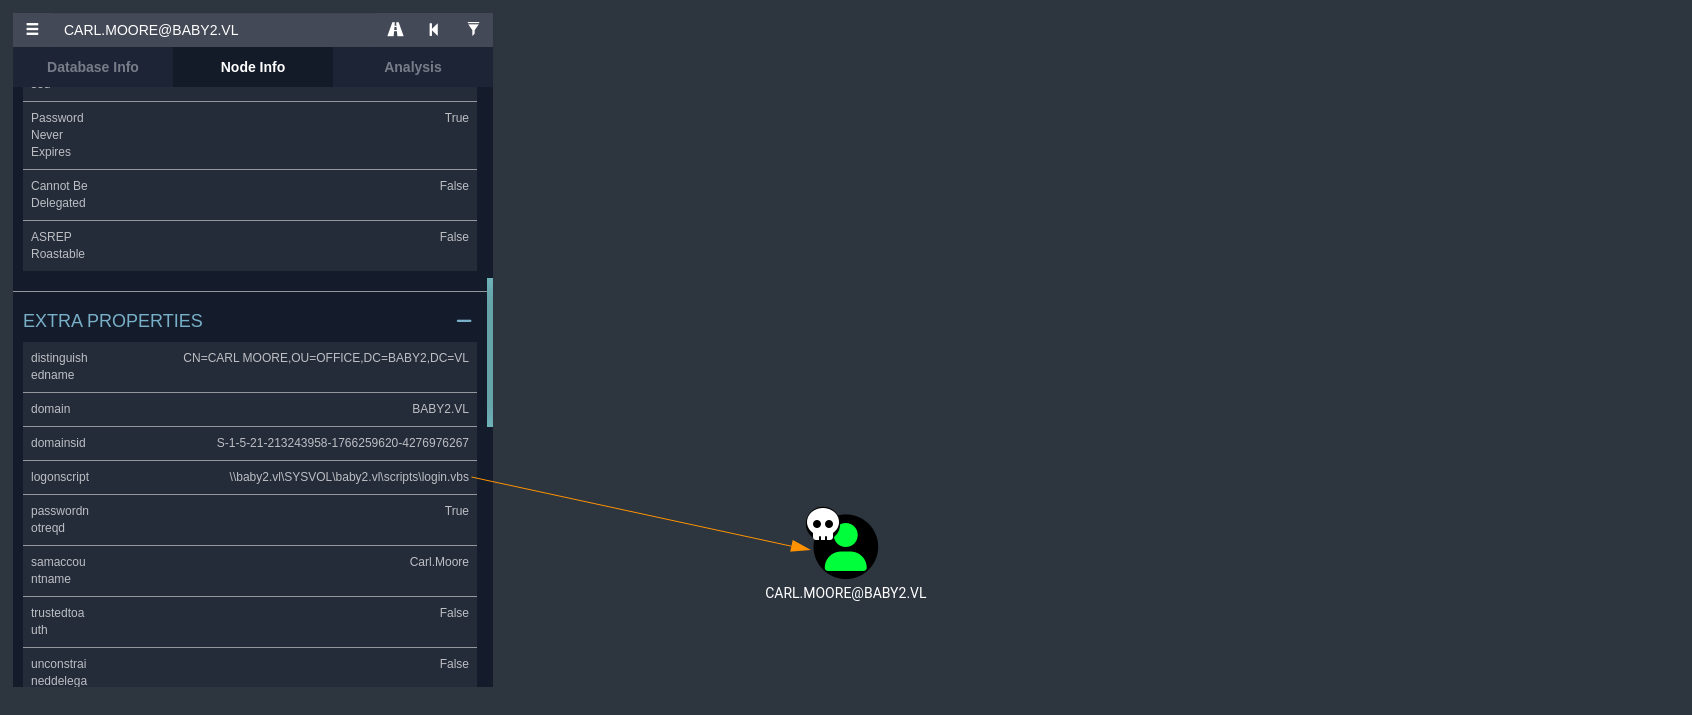
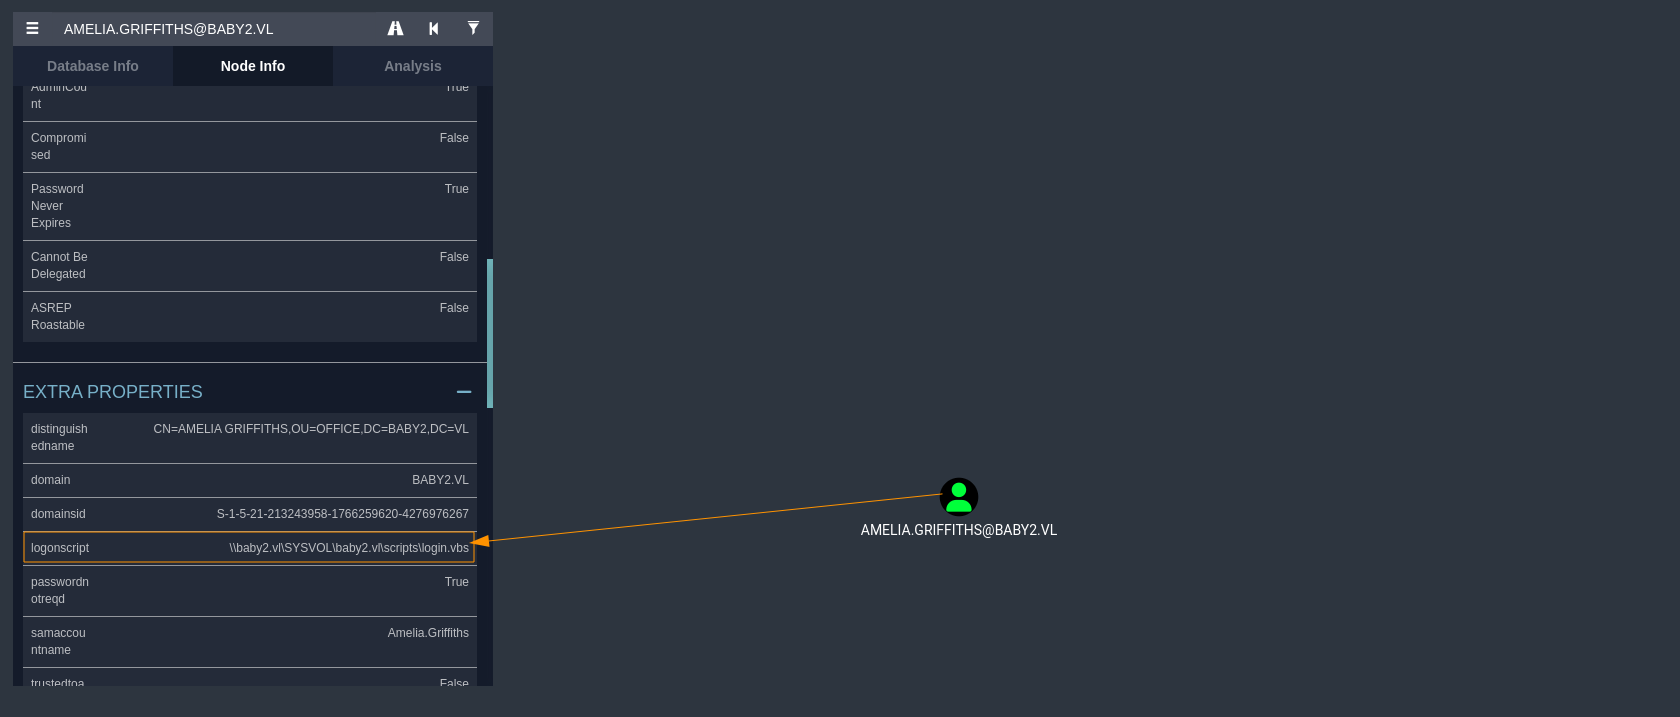
Updated New Post

diff --git a/_posts/2025-04-16-VulnLab-Baby2.md b/_posts/2025-04-16-VulnLab-Baby2.md
@@ -108,6 +108,7 @@ Nmap done: 1 IP address (1 host up) scanned in 197.82 seconds
 ## Enumeration
 
 ### SMB
+We kick off our enumeration with `SMB`, a common file-sharing protocol in Windows environments. It’s often a good first step when targeting Windows machines, especially in Active Directory. Using the `NetExec` tool we tried authenticating as the Guest user a default account that sometimes has limited access.The authentication was successful, and we were able to enumerate SMB shares on the target. Notably, we had read access to shares like `homes` and `apps`.
 
 ```bash
 nxc smb 10.10.83.184 -u 'Guest' -p '' --shares
@@ -115,17 +116,24 @@ nxc smb 10.10.83.184 -u 'Guest' -p '' --shares
 
 ![alt text](/assets/screenshots/baby2/1.png)
 
-Got users
+Digging deeper into the accessible shares, I focused on the homes share. As expected in many AD environments, this share contained home directories for individual users — essentially their personal folders on the domain.
+
+By listing the contents of this share, I was able to enumerate several valid usernames, which is a critical step when working in an Active Directory environment. These usernames will later come in handy for targeted enumeration or potential attacks like password spraying.
 
 ![alt text](/assets/screenshots/baby2/2.png)
 
-Username as Password
+**Username as Password**
+With our list of usernames gathered from the homes share, we moved on to testing a common misconfiguration users setting their password to match their username.
+We used NetExec again, leveraging its `--no-bruteforce` flag to ensure we’re not hammering accounts and risking lockouts.
+
+This approach paid off — we successfully authenticated with two sets of credentials, `Carl.Moore:Carl.Moore` and `library:library`
 
 ```bash
 nxc smb 10.10.68.173 -u loots/users.txt -p loots/users.txt --continue-on-success --no-bruteforce
 ```
 
 ![alt text](/assets/screenshots/baby2/3.png)
+
 
 Enumerating Users
 
@@ -135,7 +143,10 @@ nxc smb 10.10.68.173 -u Carl.Moore -p Carl.Moore --users
 
 ![alt text](/assets/screenshots/baby2/4.png)
 
-### Bloodhound
+### Enumerating the Domain with BloodHound
+Now that we’ve obtained valid credentials (`Carl.Moore:Carl.Moore`), it’s a great time to collect domain information using `BloodHound`, a powerful tool for visualizing and analyzing Active Directory relationships and privilege escalation paths.
+
+We used `bloodhound-python` to perform a full collection of data from the domain.With the data imported into BloodHound, we’re ready to start analyzing our attack paths and identifying misconfigurations that can lead us to domain dominance.
 
 ```bash
 bloodhound-python -d baby2.vl  -c all -u 'Carl.Moore' -p 'Carl.Moore' -ns 10.10.68.173 --zip
@@ -143,29 +154,45 @@ bloodhound-python -d baby2.vl  -c all -u 'Carl.Moore' -p 'Carl.Moore' -ns 10.10.
 
 ![alt text](/assets/screenshots/baby2/5.png)
 
+While reviewing the BloodHound data, we identified that the user AMELIA.GRIFFITHS has a `logon script` (*a script that runs automatically when a user logs into a Windows domain.*) configured `\\baby2.vl\SYSVOL\baby2.vl\scripts\login.vbs`.This script is located in the `SYSVOL` share — a shared folder used by domain controllers to store public domain-wide resources, including `Group Policy scripts`. 
+
 ![alt text](/assets/screenshots/baby2/6.png)
 
+>The key point here is if this script is writable by low-privileged users, it could be used as a method of privilege escalation.Since logon scripts are executed automatically when a user logs in, modifying a script tied to a privileged user could lead to code execution as that user
+{: .prompt-tip }
+
 ## Initial Access
+We accessed the SYSVOL share to inspect the logon script and found `login.vbs` inside the scripts directory. 
 
-### Abusing Logon Script
+![alt text](/assets/screenshots/baby2/17.png)
 
-here
+After downloading it locally, we analyzed its contents and modified it to include a malicious payload:
+This payload uses PowerShell to download and execute a reverse shell from our attacker-controlled machine. 
 
 ![alt text](/assets/screenshots/baby2/7.png)
 
-here
+### Abusing Logon Script
+Before proceeding, we deleted the original login.vbs from the share to confirm write access. Once confirmed, we uploaded our modified version successfully.
 
 ![alt text](/assets/screenshots/baby2/8.png)
 
-dd
-
-Got a shell
+Meanwhile, we had already set up a `Python HTTP server` to host `notpad.ps1` (a PowerShell reverse shell script) and a Netcat listener to catch the connection. As soon as a user triggered the logon script, we received a reverse shell confirming successful exploitation of a writable `logon script via GPO misconfiguration`. To confirm which user the reverse shell was running as, we executed the following PowerShell command, which is similar to whoami `"$env:USERDOMAIN\$env:USERNAME"`
 
 ![alt text](/assets/screenshots/baby2/9.png)
 
 ## Privilege Escalation
+Back in BloodHound, we discovered that `AMELIA.GRIFFITHS` is a member of the `LEGACY@BABY2.VL` group. According to the analysis, members of this group have the `WriteDACL` permission on the user `GPOADM@BABY2.VL`.
 
 ### writeDACL
+>In Active Directory, every object (like a user, group, or computer) has a set of permissions that control who can do what to it. These permissions are stored in something called a DACL (Discretionary Access Control List). The WriteDACL permission means you can edit that list of permissions.
+{: .prompt-tip }
+
+>Imagine a VIP room that has a guest list at the door only people on the list can get in.Normally, only the manager can edit the guest list.But if you have WriteDACL, it's like having the power to walk up and add your name (or your friend’s name) to the VIP list.
+{: .prompt-tip }
+
+>In Active Directory terms, If you have `WriteDACL` over a user account like `GPOADM`, you can add your own account and give it full control over `GPOADM`. From there, you can do things like: Reset their password Or even impersonate them completely.
+{: .prompt-tip }
+
 
 ![alt text](/assets/screenshots/baby2/10.png)
 
